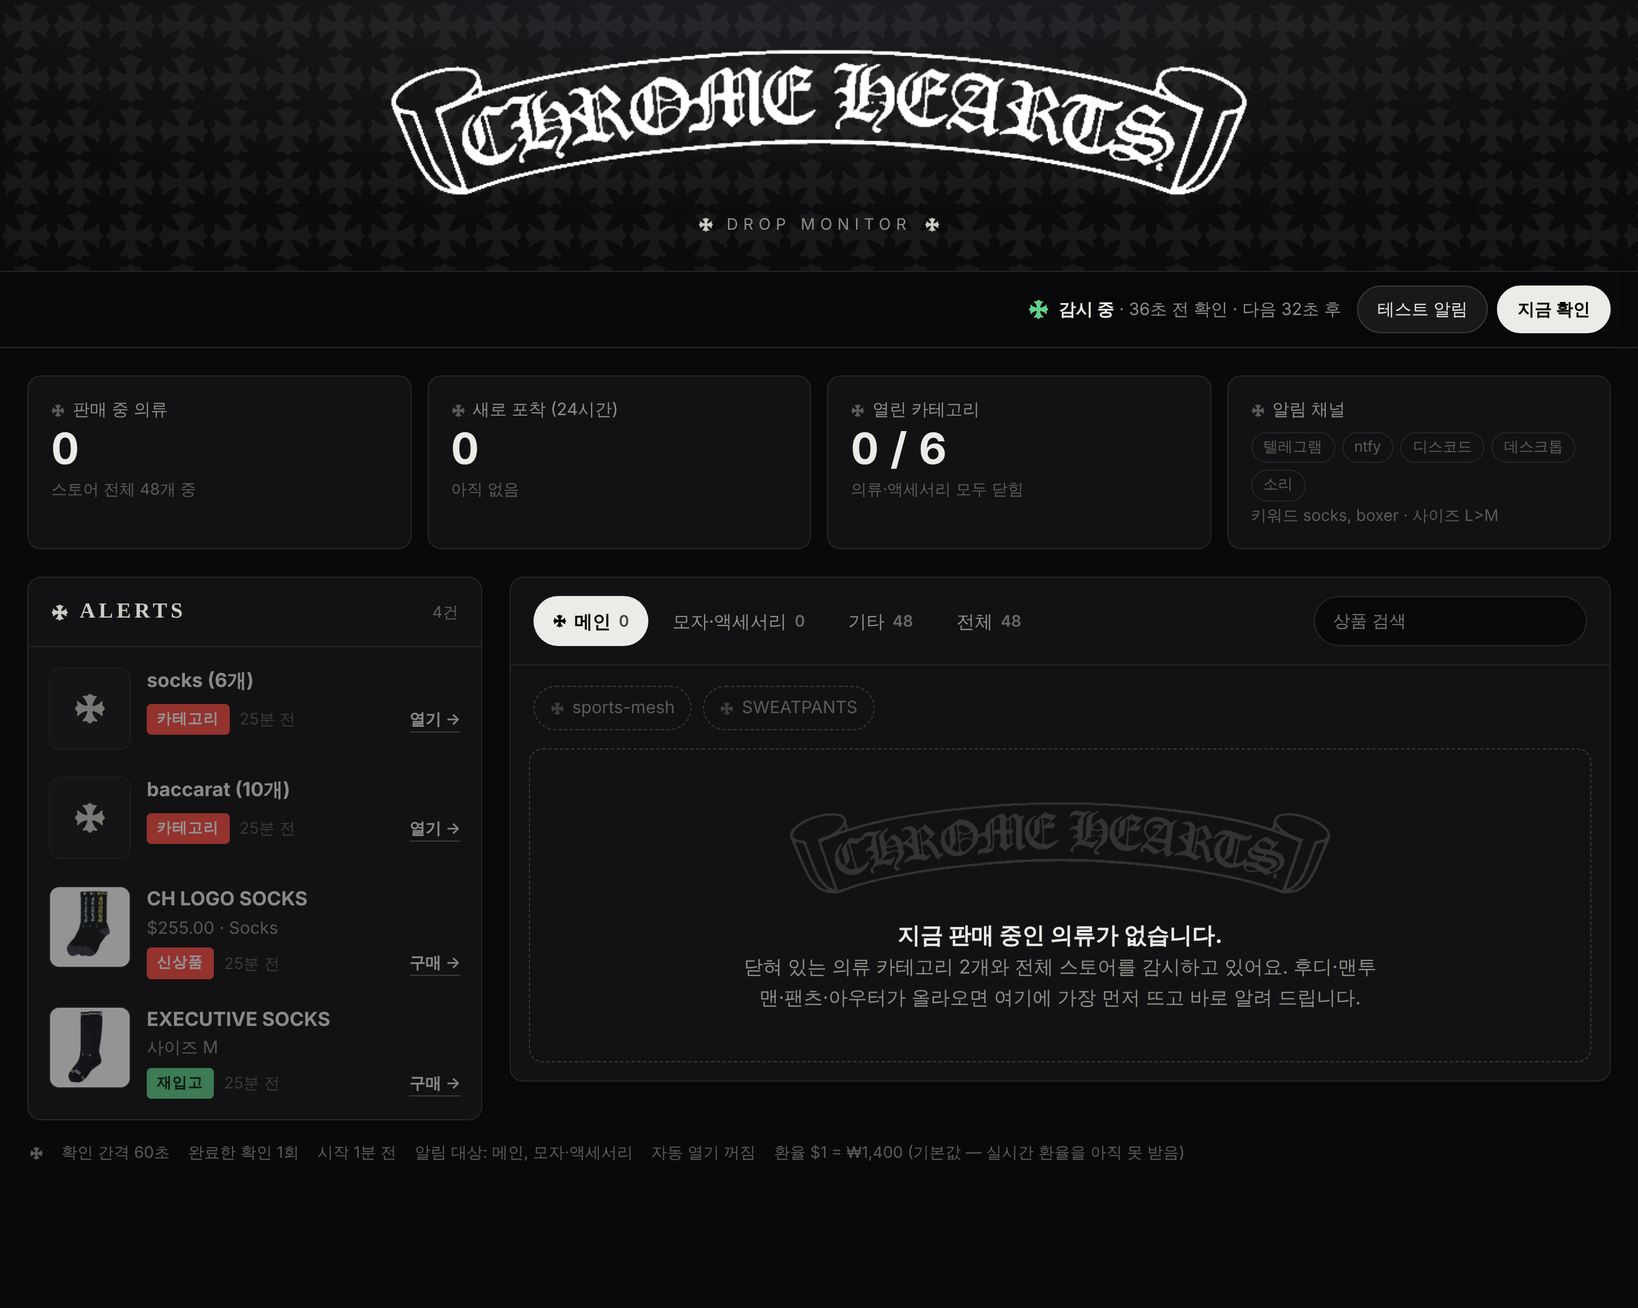
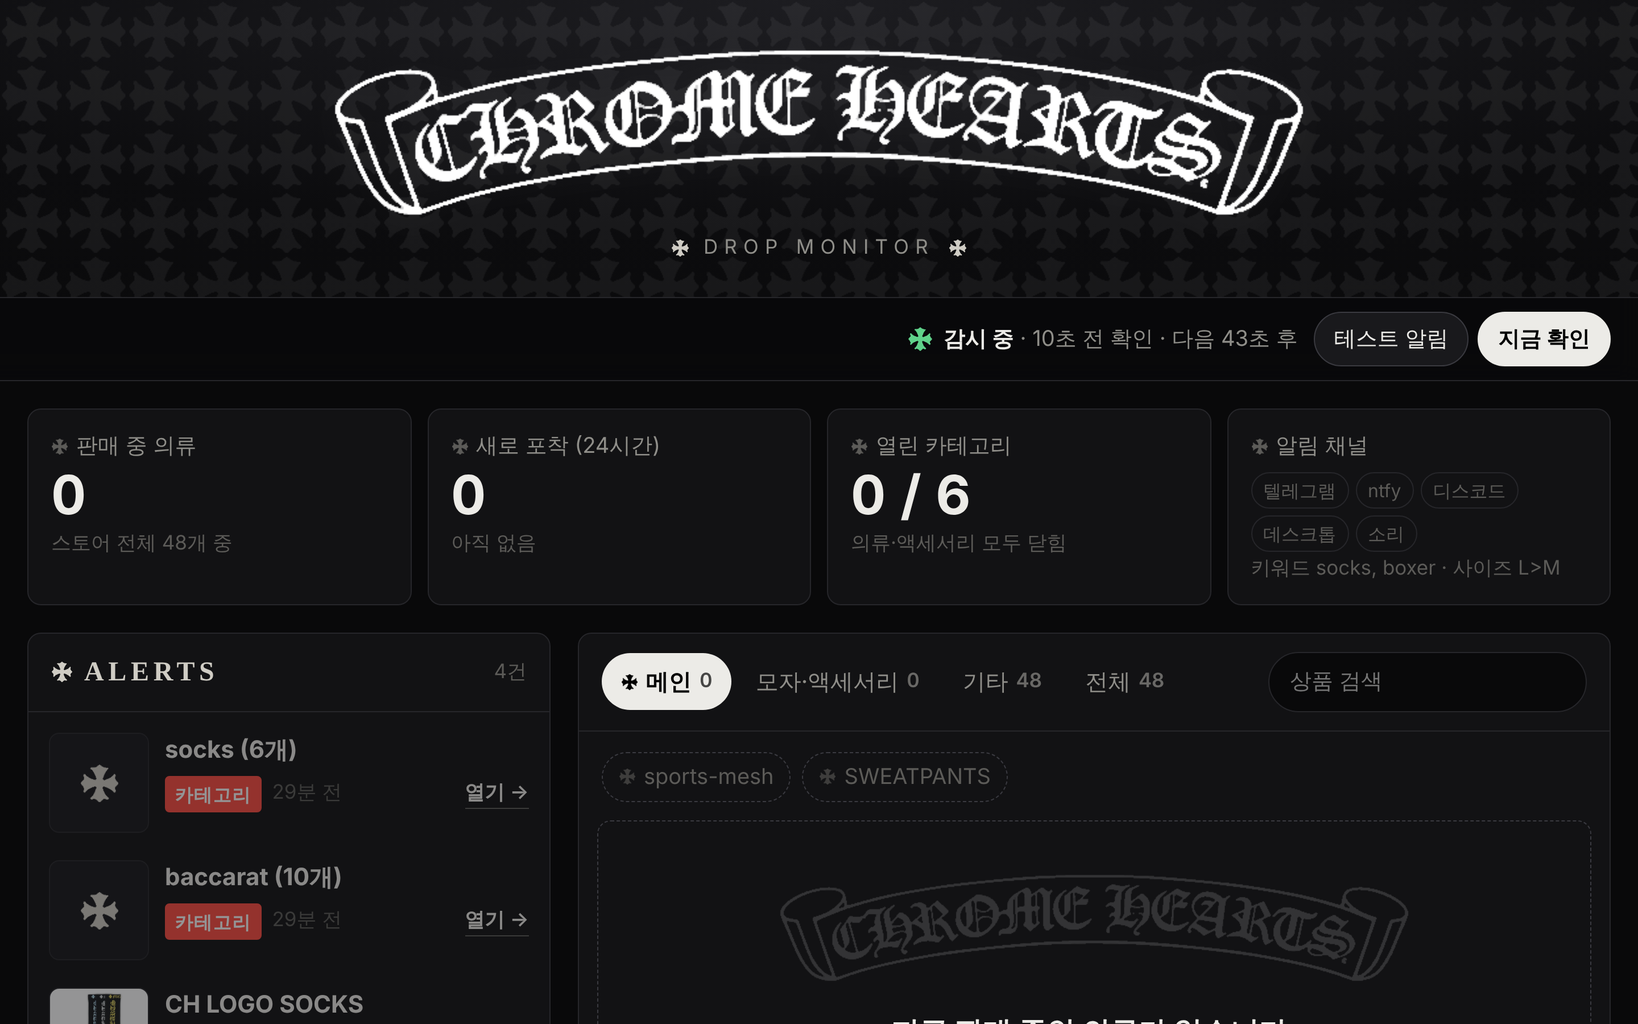
fix(drop-monitor): keep the dashboard intact when an older server is running
The page carried its logos as /static/ requests, which an older dashboard
process (still running after a git pull) answered with 404, so the banner
and crosses broke. The images are now inline, the page warns when the
server is out of date, and a second start on a busy port says how to stop
the first. Type is 1.25x larger throughout.

Claude-Session: https://claude.ai/code/session_01RWjNMcR5UQi4hTjZjTu5Z8

diff --git a/drop-monitor/chmonitor/dashboard.html b/drop-monitor/chmonitor/dashboard.html
@@ -4,9 +4,11 @@
 <meta charset="utf-8">
 <meta name="viewport" content="width=device-width, initial-scale=1">
 <title>Drop Monitor</title>
-<link rel="icon" type="image/png" href="/static/favicon.png">
[1 lines of base64/hex data omitted]
 <style>
 :root{
[2 lines of base64/hex data omitted]
   --bg:#09090a; --panel:#121214; --panel-2:#19191c; --line:#26262a; --line-2:#3a3a40;
   --text:#ecebe7; --muted:#8f8e89; --faint:#5c5b58;
   --silver:#cfccc4; --ok:#5fd18a; --warn:#e7b44c; --alert:#ff4d42;
@@ -15,138 +17,139 @@
   --sans:-apple-system,BlinkMacSystemFont,"Apple SD Gothic Neo","Pretendard","Noto Sans KR","Segoe UI",sans-serif;
 }
 *{box-sizing:border-box}
-html,body{margin:0;background:var(--bg);color:var(--text);font:16px/1.5 var(--sans);-webkit-font-smoothing:antialiased}
+html,body{margin:0;background:var(--bg);color:var(--text);font:20px/1.5 var(--sans);-webkit-font-smoothing:antialiased}
 a{color:inherit}
 button{font:inherit;color:inherit}
 
 /* the cross, tinted with currentColor */
 .x{display:inline-block;width:1em;height:1em;flex:none;background:currentColor;
-   -webkit-mask:url(/static/cross.png) center/contain no-repeat;mask:url(/static/cross.png) center/contain no-repeat}
+   -webkit-mask:var(--cross) center/contain no-repeat;mask:var(--cross) center/contain no-repeat}
 
 /* hero */
 .hero{position:relative;overflow:hidden;border-bottom:1px solid var(--line);
   background:radial-gradient(120% 140% at 50% 0%,#1d1d21 0%,#0c0c0e 55%,var(--bg) 100%)}
 .hero::before{content:"";position:absolute;inset:0;opacity:.05;pointer-events:none;
-  background:url(/static/cross.png) 0 0/46px 46px;filter:blur(.2px)}
+  background:var(--cross) 0 0/56px 56px;filter:blur(.2px)}
 .hero-in{position:relative;max-width:1600px;margin:0 auto;padding:40px 24px 30px;display:flex;flex-direction:column;align-items:center;gap:12px;text-align:center}
-.hero img{width:min(760px,90vw);height:auto;display:block;filter:drop-shadow(0 2px 18px rgba(255,255,255,.08))}
-.hero .sub{display:flex;align-items:center;gap:12px;color:var(--muted);font-size:14px;letter-spacing:.32em;text-transform:uppercase}
-.hero .sub .x{font-size:13px;color:var(--silver)}
+.banner{background:var(--banner) center/contain no-repeat;aspect-ratio:744/132}
+.hero .banner{width:min(860px,90vw);display:block;filter:drop-shadow(0 2px 18px rgba(255,255,255,.08))}
+.hero .sub{display:flex;align-items:center;gap:12px;color:var(--muted);font-size:17.5px;letter-spacing:.32em;text-transform:uppercase}
+.hero .sub .x{font-size:16px;color:var(--silver)}
 
 /* sticky bar */
 header{position:sticky;top:0;z-index:5;background:rgba(9,9,10,.9);backdrop-filter:blur(10px);border-bottom:1px solid var(--line)}
-.bar{max-width:1600px;margin:0 auto;padding:12px 24px;display:flex;align-items:center;gap:14px;flex-wrap:wrap}
+.bar{max-width:1760px;margin:0 auto;padding:12px 24px;display:flex;align-items:center;gap:14px;flex-wrap:wrap}
 .mini{display:flex;align-items:center;gap:10px;margin-right:auto;min-width:0}
-.mini img{height:28px;width:auto;opacity:0;transition:opacity .25s}
-.mini.show img{opacity:1}
-.status{display:flex;align-items:center;gap:9px;color:var(--muted);font-size:15px}
-.status .x{font-size:18px;color:var(--faint)}
+.mini .banner{height:34px;opacity:0;transition:opacity .25s}
+.mini.show .banner{opacity:1}
+.status{display:flex;align-items:center;gap:9px;color:var(--muted);font-size:19px}
+.status .x{font-size:22.5px;color:var(--faint)}
 .status .x.ok{color:var(--ok)}
 .status .x.checking{color:var(--warn);animation:spin 1.2s linear infinite}
 .status .x.error{color:var(--alert)}
 @keyframes spin{to{transform:rotate(90deg)}}
 .status strong{color:var(--text);font-weight:600}
 .actions{display:flex;gap:8px}
-.btn{border:1px solid var(--line-2);background:var(--panel-2);padding:9px 17px;border-radius:999px;cursor:pointer;font-size:15px;white-space:nowrap}
+.btn{border:1px solid var(--line-2);background:var(--panel-2);padding:9px 17px;border-radius:999px;cursor:pointer;font-size:19px;white-space:nowrap}
 .btn:hover{border-color:var(--silver)}
 .btn:disabled{opacity:.5;cursor:default}
 .btn.primary{background:var(--text);color:#000;border-color:var(--text);font-weight:600}
 
-main{max-width:1600px;margin:0 auto;padding:24px}
+main{max-width:1760px;margin:0 auto;padding:24px}
 .err{display:none;margin-bottom:16px;padding:12px 14px;border:1px solid rgba(255,77,66,.4);background:rgba(255,77,66,.08);border-radius:var(--radius);color:#ffb3ad}
 
 /* stats */
 .stats{display:grid;grid-template-columns:repeat(4,minmax(0,1fr));gap:14px;margin-bottom:24px}
 .stat{background:var(--panel);border:1px solid var(--line);border-radius:var(--radius);padding:18px 20px;min-width:0}
-.stat .k{display:flex;align-items:center;gap:7px;color:var(--muted);font-size:15px}
-.stat .k .x{font-size:12px;color:var(--faint)}
-.stat .v{font-size:38px;line-height:1.15;font-weight:650;margin-top:2px;font-variant-numeric:tabular-nums}
+.stat .k{display:flex;align-items:center;gap:7px;color:var(--muted);font-size:19px}
+.stat .k .x{font-size:15px;color:var(--faint)}
+.stat .v{font-size:47.5px;line-height:1.15;font-weight:650;margin-top:2px;font-variant-numeric:tabular-nums}
 .stat .v.hot{color:var(--alert)}
-.stat .s{color:var(--faint);font-size:14px;margin-top:2px;white-space:nowrap;overflow:hidden;text-overflow:ellipsis}
+.stat .s{color:var(--faint);font-size:17.5px;margin-top:2px;white-space:nowrap;overflow:hidden;text-overflow:ellipsis}
 .chan{display:flex;gap:6px;flex-wrap:wrap;margin-top:8px}
-.chan i{font-style:normal;font-size:13px;padding:3px 10px;border-radius:999px;border:1px solid var(--line);color:var(--faint)}
+.chan i{font-style:normal;font-size:16px;padding:3px 10px;border-radius:999px;border:1px solid var(--line);color:var(--faint)}
 .chan i.on{color:var(--text);border-color:var(--line-2);background:var(--panel-2)}
 
-.layout{display:grid;grid-template-columns:400px minmax(0,1fr);gap:24px;align-items:start}
+.layout{display:grid;grid-template-columns:460px minmax(0,1fr);gap:24px;align-items:start}
 .panel{background:var(--panel);border:1px solid var(--line);border-radius:var(--radius)}
 .ph{display:flex;align-items:center;justify-content:space-between;gap:12px;padding:16px 20px;border-bottom:1px solid var(--line);flex-wrap:wrap}
-.ph h2{display:flex;align-items:center;gap:10px;margin:0;font-family:var(--serif);font-size:19px;font-weight:700;letter-spacing:.16em;text-transform:uppercase;color:var(--silver)}
-.ph h2 .x{font-size:15px}
-.ph small{color:var(--faint);font-size:14px}
+.ph h2{display:flex;align-items:center;gap:10px;margin:0;font-family:var(--serif);font-size:24px;font-weight:700;letter-spacing:.16em;text-transform:uppercase;color:var(--silver)}
+.ph h2 .x{font-size:19px}
+.ph small{color:var(--faint);font-size:17.5px}
 
 /* feed */
 .feed{position:sticky;top:64px;max-height:calc(100vh - 84px);display:flex;flex-direction:column}
 .feed ol{list-style:none;margin:0;padding:6px;overflow:auto}
-.ev{display:grid;grid-template-columns:72px minmax(0,1fr);gap:14px;padding:12px;border-radius:9px}
+.ev{display:grid;grid-template-columns:88px minmax(0,1fr);gap:14px;padding:12px;border-radius:9px}
 .ev:hover{background:var(--panel-2)}
-.ev .thumb{width:72px;height:72px;border-radius:9px;background:#fff center/contain no-repeat;border:1px solid var(--line)}
-.ev .thumb.none{background:var(--panel-2);display:grid;place-items:center;color:var(--silver);font-size:28px}
-.ev .t{font-weight:650;font-size:17px;overflow-wrap:anywhere}
-.ev .d{color:var(--muted);font-size:15px}
-.ev .m{display:flex;align-items:center;gap:9px;margin-top:6px;font-size:14px;color:var(--faint)}
+.ev .thumb{width:88px;height:88px;border-radius:9px;background:#fff center/contain no-repeat;border:1px solid var(--line)}
+.ev .thumb.none{background:var(--panel-2);display:grid;place-items:center;color:var(--silver);font-size:35px}
+.ev .t{font-weight:650;font-size:21px;overflow-wrap:anywhere}
+.ev .d{color:var(--muted);font-size:19px}
+.ev .m{display:flex;align-items:center;gap:9px;margin-top:6px;font-size:17.5px;color:var(--faint)}
 .ev.dim{opacity:.55}
-.tag{display:inline-flex;align-items:center;gap:5px;font-size:13px;font-weight:700;letter-spacing:.05em;padding:3px 8px;border-radius:4px;background:var(--panel-2);color:var(--silver);border:1px solid var(--line)}
-.tag .x{font-size:11px}
+.tag{display:inline-flex;align-items:center;gap:5px;font-size:16px;font-weight:700;letter-spacing:.05em;padding:3px 8px;border-radius:4px;background:var(--panel-2);color:var(--silver);border:1px solid var(--line)}
+.tag .x{font-size:14px}
 .tag.new_product,.tag.relisted,.tag.category_open{background:var(--alert);border-color:var(--alert);color:#fff}
 .tag.restock{background:var(--ok);border-color:var(--ok);color:#06210f}
 .tag.price_change{color:var(--warn);border-color:rgba(231,180,76,.5)}
 .tag.error{color:var(--alert);border-color:rgba(255,77,66,.5)}
 .buy{margin-left:auto;font-weight:600;color:var(--text);text-decoration:none;border-bottom:1px solid var(--faint)}
 .buy:hover{border-color:var(--text)}
-.empty{padding:32px 20px;color:var(--faint);text-align:center;font-size:16px}
+.empty{padding:32px 20px;color:var(--faint);text-align:center;font-size:20px}
 
 /* store */
 .tabs{display:flex;gap:4px;flex-wrap:wrap}
-.tabs button{display:inline-flex;align-items:center;gap:7px;background:none;border:1px solid transparent;border-radius:999px;padding:9px 16px;font-size:16px;color:var(--muted);cursor:pointer}
+.tabs button{display:inline-flex;align-items:center;gap:7px;background:none;border:1px solid transparent;border-radius:999px;padding:9px 16px;font-size:20px;color:var(--muted);cursor:pointer}
 .tabs button:hover{color:var(--text)}
 .tabs button[aria-selected=true]{background:var(--text);color:#000;font-weight:650}
-.tabs button b{font-weight:600;font-size:14px;opacity:.7;font-variant-numeric:tabular-nums}
-.tabs button .x{font-size:12px}
-.search{background:var(--bg);border:1px solid var(--line);border-radius:999px;padding:10px 16px;color:var(--text);font:inherit;font-size:15px;width:240px;max-width:100%}
+.tabs button b{font-weight:600;font-size:17.5px;opacity:.7;font-variant-numeric:tabular-nums}
+.tabs button .x{font-size:15px}
+.search{background:var(--bg);border:1px solid var(--line);border-radius:999px;padding:11px 18px;color:var(--text);font:inherit;font-size:19px;width:280px;max-width:100%}
 .search:focus{outline:none;border-color:var(--silver)}
-.note{margin:18px 20px 0;padding:12px 16px;border-radius:9px;background:var(--panel-2);color:var(--muted);font-size:15px;border:1px solid var(--line)}
+.note{margin:18px 20px 0;padding:12px 16px;border-radius:9px;background:var(--panel-2);color:var(--muted);font-size:19px;border:1px solid var(--line)}
 
 .cats{display:flex;flex-wrap:wrap;gap:10px;padding:18px 20px 0}
-.cat{display:inline-flex;align-items:center;gap:7px;padding:7px 14px;border-radius:999px;border:1px dashed var(--line-2);color:var(--faint);font-size:15px;text-decoration:none}
-.cat .x{font-size:12px;opacity:.6}
+.cat{display:inline-flex;align-items:center;gap:7px;padding:7px 14px;border-radius:999px;border:1px dashed var(--line-2);color:var(--faint);font-size:19px;text-decoration:none}
+.cat .x{font-size:15px;opacity:.6}
 .cat.open{border-style:solid;border-color:var(--line-2);color:var(--text);background:var(--panel-2)}
 .cat.open .x{color:var(--ok);opacity:1}
 .cat.open b{font-weight:600;color:var(--silver);font-variant-numeric:tabular-nums}
 
 .sec{padding:22px 20px 6px}
-.sec h3{display:flex;align-items:center;gap:10px;margin:0 0 16px;font-size:15px;font-weight:700;letter-spacing:.14em;text-transform:uppercase;color:var(--muted)}
-.sec h3 .x{font-size:14px;color:var(--silver)}
+.sec h3{display:flex;align-items:center;gap:10px;margin:0 0 16px;font-size:19px;font-weight:700;letter-spacing:.14em;text-transform:uppercase;color:var(--muted)}
+.sec h3 .x{font-size:17.5px;color:var(--silver)}
 .sec h3.hot{color:var(--alert)}
 .sec h3.hot .x{color:var(--alert)}
 .sec h3 small{font-weight:500;letter-spacing:0;color:var(--faint);text-transform:none}
-.grid{display:grid;grid-template-columns:repeat(auto-fill,minmax(280px,1fr));gap:18px;padding-bottom:16px}
-.grid.compact{grid-template-columns:repeat(auto-fill,minmax(240px,1fr))}
+.grid{display:grid;grid-template-columns:repeat(auto-fill,minmax(320px,1fr));gap:20px;padding-bottom:16px}
+.grid.compact{grid-template-columns:repeat(auto-fill,minmax(280px,1fr))}
 .card{display:flex;flex-direction:column;background:var(--panel-2);border:1px solid var(--line);border-radius:12px;overflow:hidden;min-width:0}
 .card.fresh{border-color:rgba(255,77,66,.55);box-shadow:0 0 0 1px rgba(255,77,66,.25),0 8px 30px -12px rgba(255,77,66,.35)}
 .card.gone{opacity:.45}
 .img{position:relative;aspect-ratio:1;background:#fff center/contain no-repeat}
 .img .badge{position:absolute;top:12px;left:12px}
 .body{padding:14px 16px 16px;display:flex;flex-direction:column;gap:8px;flex:1}
-.name{font-weight:650;font-size:18px;line-height:1.3;overflow-wrap:anywhere}
-.meta{color:var(--muted);font-size:14px}
+.name{font-weight:650;font-size:22.5px;line-height:1.3;overflow-wrap:anywhere}
+.meta{color:var(--muted);font-size:17.5px}
 .prices{display:flex;align-items:baseline;flex-wrap:wrap;gap:4px 10px}
-.prices .usd{font-size:22px;font-weight:700;color:var(--text);font-variant-numeric:tabular-nums}
-.prices .krw{font-size:16px;color:var(--silver);font-variant-numeric:tabular-nums}
+.prices .usd{font-size:27.5px;font-weight:700;color:var(--text);font-variant-numeric:tabular-nums}
+.prices .krw{font-size:20px;color:var(--silver);font-variant-numeric:tabular-nums}
 .sizes{display:flex;flex-wrap:wrap;gap:6px}
-.sz{font-size:14px;padding:3px 9px;border-radius:5px;border:1px solid var(--line-2);color:var(--silver)}
+.sz{font-size:17.5px;padding:3px 9px;border-radius:5px;border:1px solid var(--line-2);color:var(--silver)}
 .sz.out{color:var(--faint);border-color:var(--line);text-decoration:line-through}
 .sz.pref{border-color:var(--text);color:var(--text);font-weight:700}
-.card .go{margin-top:auto;text-align:center;padding:11px;border-radius:9px;background:var(--text);color:#000;font-weight:700;font-size:16px;text-decoration:none}
+.card .go{margin-top:auto;text-align:center;padding:11px;border-radius:9px;background:var(--text);color:#000;font-weight:700;font-size:20px;text-decoration:none}
 .card .go:hover{background:#fff}
 .card.gone .go{background:var(--panel);color:var(--muted)}
 
 .wait{position:relative;margin:16px;padding:44px 20px 40px;border:1px dashed var(--line-2);border-radius:var(--radius);text-align:center;overflow:hidden}
-.wait img{width:min(480px,75%);opacity:.14;display:block;margin:0 auto 18px}
-.wait p{margin:0 auto;max-width:560px;color:var(--muted);font-size:17px;line-height:1.6}
-.wait p strong{color:var(--text);font-size:20px}
+.wait .banner{width:min(560px,80%);opacity:.14;margin:0 auto 22px}
+.wait p{margin:0 auto;max-width:560px;color:var(--muted);font-size:21px;line-height:1.6}
+.wait p strong{color:var(--text);font-size:25px}
 
-.foot{color:var(--faint);font-size:14px;margin:18px 2px 0;display:flex;gap:16px;flex-wrap:wrap;align-items:center}
-.foot .x{font-size:12px}
+.foot{color:var(--faint);font-size:17.5px;margin:18px 2px 0;display:flex;gap:16px;flex-wrap:wrap;align-items:center}
+.foot .x{font-size:15px}
 
 @media (max-width:980px){
   .layout{grid-template-columns:1fr}
@@ -156,39 +159,39 @@ main{max-width:1600px;margin:0 auto;padding:24px}
 }
 @media (max-width:560px){
   .hero-in{padding:22px 16px 18px}
-  .hero .sub{letter-spacing:.22em;font-size:13px}
+  .hero .sub{letter-spacing:.22em;font-size:16px}
   .bar{padding:10px 16px;gap:10px}
-  .mini img{height:22px}
+  .mini .banner{height:26px}
   .status{order:3;width:100%}
-  .btn{padding:8px 14px;font-size:15px}
+  .btn{padding:8px 14px;font-size:19px}
   main{padding:16px}
   .tabs{flex-wrap:nowrap;overflow-x:auto;width:100%;scrollbar-width:none}
-  .tabs button{padding:8px 13px;font-size:15px;flex:none}
-  .wait p strong{font-size:18px}
-  .wait p{font-size:16px}
+  .tabs button{padding:8px 13px;font-size:19px;flex:none}
+  .wait p strong{font-size:22.5px}
+  .wait p{font-size:20px}
   .grid{grid-template-columns:1fr;gap:16px}
   .grid.compact{grid-template-columns:repeat(2,minmax(0,1fr));gap:12px}
-  .grid.compact .name{font-size:15px}
-  .grid.compact .prices .usd{font-size:18px}
-  .grid.compact .prices .krw{font-size:14px}
+  .grid.compact .name{font-size:19px}
+  .grid.compact .prices .usd{font-size:22.5px}
+  .grid.compact .prices .krw{font-size:17.5px}
   .sec{padding:16px 12px 4px}
   .search{width:100%}
-  .stat .v{font-size:30px}
-  .stat .k{font-size:14px}
+  .stat .v{font-size:37.5px}
+  .stat .k{font-size:17.5px}
 }
 </style>
 </head>
 <body>
 <section class="hero" id="hero">
   <div class="hero-in">
-    <img src="/static/banner.png" alt="Chrome Hearts">
+    <div class="banner" role="img" aria-label="Chrome Hearts"></div>
     <div class="sub"><span class="x"></span>Drop Monitor<span class="x"></span></div>
   </div>
 </section>
 
 <header>
   <div class="bar">
-    <div class="mini" id="mini"><img src="/static/banner.png" alt=""></div>
+    <div class="mini" id="mini"><div class="banner"></div></div>
     <div class="status" aria-live="polite"><span class="x" id="dot"></span><span id="statusText">연결 중…</span></div>
     <div class="actions">
       <button class="btn" id="testBtn" type="button">테스트 알림</button>
@@ -284,6 +287,7 @@ function renderStatus() {
   $("statusText").replaceChildren(...t);
   $("checkBtn").disabled = !!st.checking;
   const e = $("err");
+  if (S.version !== 3) return;
   if (st.state === "error" && st.last_error) { e.style.display = "block"; e.textContent = "chromehearts.com 접속 실패: " + st.last_error; }
   else e.style.display = "none";
 }
@@ -407,7 +411,7 @@ function renderStore() {
     if (!fresh.length && !apparel.length) {
       const closed = Object.entries(S.categories).filter(([c, n]) => (S.category_groups || {})[c] === "main" && c !== "shop" && !n).length;
       parts.push(el("div", {class: "wait"},
-        el("img", {src: "/static/banner.png", alt: ""}),
+        el("div", {class: "banner"}),
         el("p", {}, q ? "검색 결과가 없습니다." : [el("strong", {}, "지금 판매 중인 의류가 없습니다."), el("br"),
           `닫혀 있는 의류 카테고리 ${closed}개와 전체 스토어를 감시하고 있어요. 후디·맨투맨·팬츠·아우터가 올라오면 여기에 가장 먼저 뜨고 바로 알려 드립니다.`])));
     }
@@ -423,6 +427,14 @@ async function load() {
   try {
     const r = await fetch("/api/state", {cache: "no-store"});
     S = await r.json();
+    if (S.version !== 3) {
+      const e = $("err"); e.style.display = "block";
+      e.textContent = "대시보드 서버가 이전 버전으로 실행 중입니다. 터미널에서 Ctrl+C로 끄고 python3 -m chmonitor --dashboard 로 다시 실행하세요.";
+      S.group_labels = S.group_labels || {}; S.category_groups = S.category_groups || {};
+      S.config.alert_groups = S.config.alert_groups || [];
+      S.products.forEach(p => { p.group = p.group || "main"; });
+    }
+    S.events.forEach(e => { e.detail = (e.detail || "").replace(/\$\$/g, "$"); });
     if (lastEventCount !== null && S.events.length > lastEventCount) {
       document.title = "🚨 새 드롭 · Drop Monitor";
       setTimeout(() => document.title = "Drop Monitor", 15000);

diff --git a/drop-monitor/chmonitor/dashboard.py b/drop-monitor/chmonitor/dashboard.py
@@ -53,6 +53,7 @@ def build_state(mon: Monitor) -> dict:
     snap["category_groups"] = {c: classify("", c) for c in snap["categories"]}
     snap["group_labels"] = LABELS
     snap["fx"] = fx.info()
+    snap["version"] = 3  # the page warns when an older server is still running
     snap["config"] = config_summary(mon.cfg)
     return snap
 
@@ -118,10 +119,14 @@ def make_handler(mon: Monitor):
 
 
 def serve(mon: Monitor, port: int = 8787, open_browser: bool = True) -> int:
+    try:
+        httpd = ThreadingHTTPServer(("127.0.0.1", port), make_handler(mon))
+    except OSError:
+        print(f"포트 {port}을(를) 이미 쓰고 있습니다. 이전에 켠 대시보드가 아직 실행 중이면 그 터미널에서 Ctrl+C로 끄거나,\n"
+              f"  lsof -ti tcp:{port} | xargs kill\n로 끈 뒤 다시 실행하세요. (다른 포트: --port 8788)")
+        return 1
     stop = threading.Event()
-    worker = threading.Thread(target=mon.loop, args=(stop,), name="monitor", daemon=True)
-    worker.start()
-    httpd = ThreadingHTTPServer(("127.0.0.1", port), make_handler(mon))
+    threading.Thread(target=mon.loop, args=(stop,), name="monitor", daemon=True).start()
     url = f"http://127.0.0.1:{port}/"
     log.info("대시보드: %s", url)
     if open_browser:

diff --git a/drop-monitor/README.md b/drop-monitor/README.md
@@ -122,6 +122,14 @@ python3 -m chmonitor                 # 대시보드 없이 감시만 (Ctrl+C로 
 같은 이유로 확인 간격은 최소 20초로 막아 두었고, 요청 사이에도 0.5초 이상 쉽니다.
 사이트가 계속 응답하지 않으면 간격을 늘려(최대 10분) 다시 시도하고, 3번 연속 실패하면 알려 줍니다.
 
+## 문제 해결
+
+- **대시보드 로고가 깨지거나 "이전 버전으로 실행 중" 경고가 뜸**: `git pull` 뒤에 예전 대시보드가 계속 켜져 있는 경우입니다.
+  그 터미널에서 Ctrl+C로 끄고 다시 `python3 -m chmonitor --dashboard`.
+- **"포트 8787을 이미 쓰고 있습니다"**: 예전 대시보드가 다른 터미널에서 실행 중입니다. `lsof -ti tcp:8787 | xargs kill` 후 다시 실행.
+- **CERTIFICATE_VERIFY_FAILED**: python.org 파이썬이면 `open "/Applications/Python 3.13/Install Certificates.command"` 한 번 실행.
+- **No module named chmonitor**: `drop-monitor` 폴더 안에서 실행해야 합니다 (`cd ~/chusherlock/drop-monitor`).
+
 ## 개발
 
 ```bash
